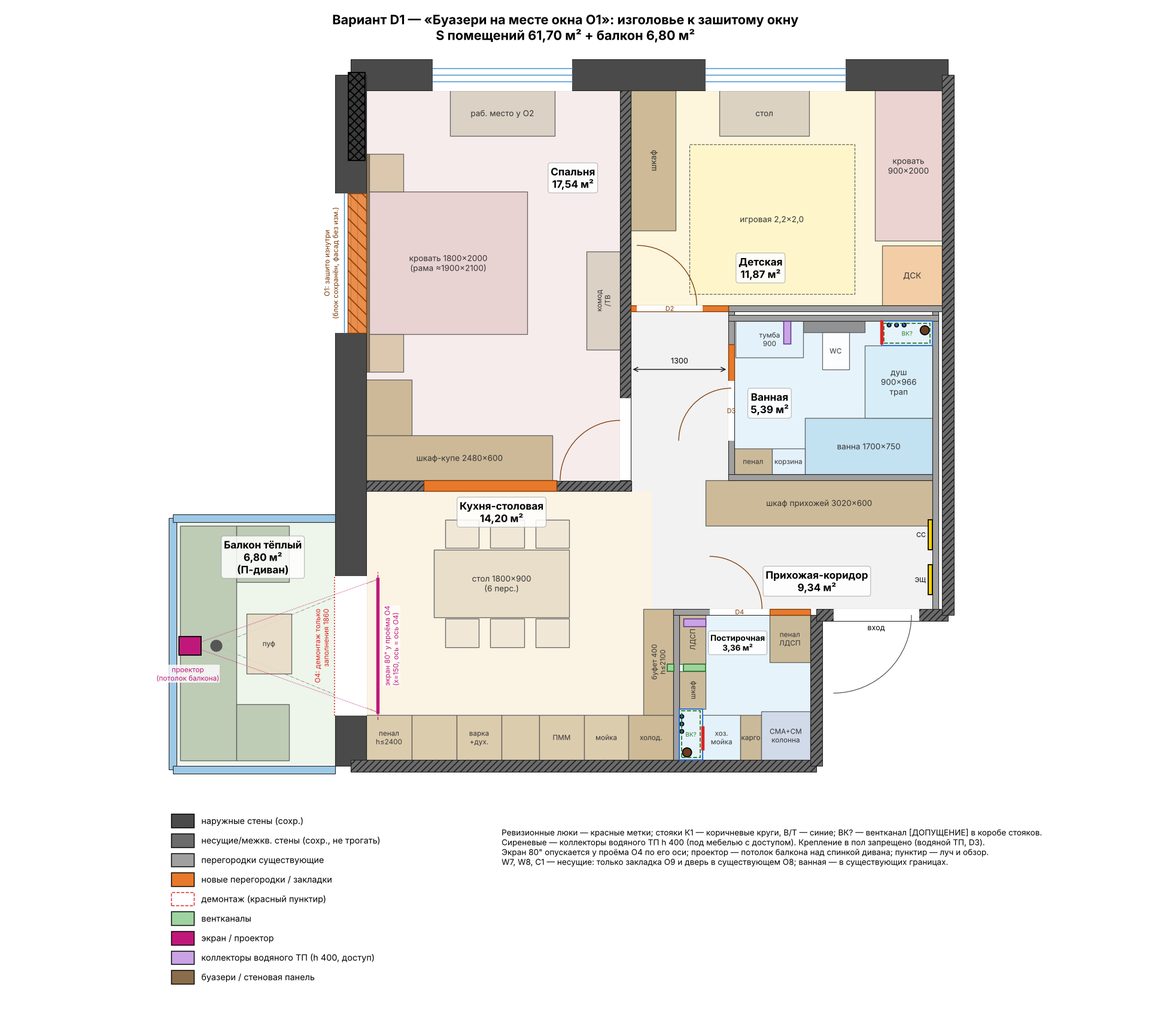
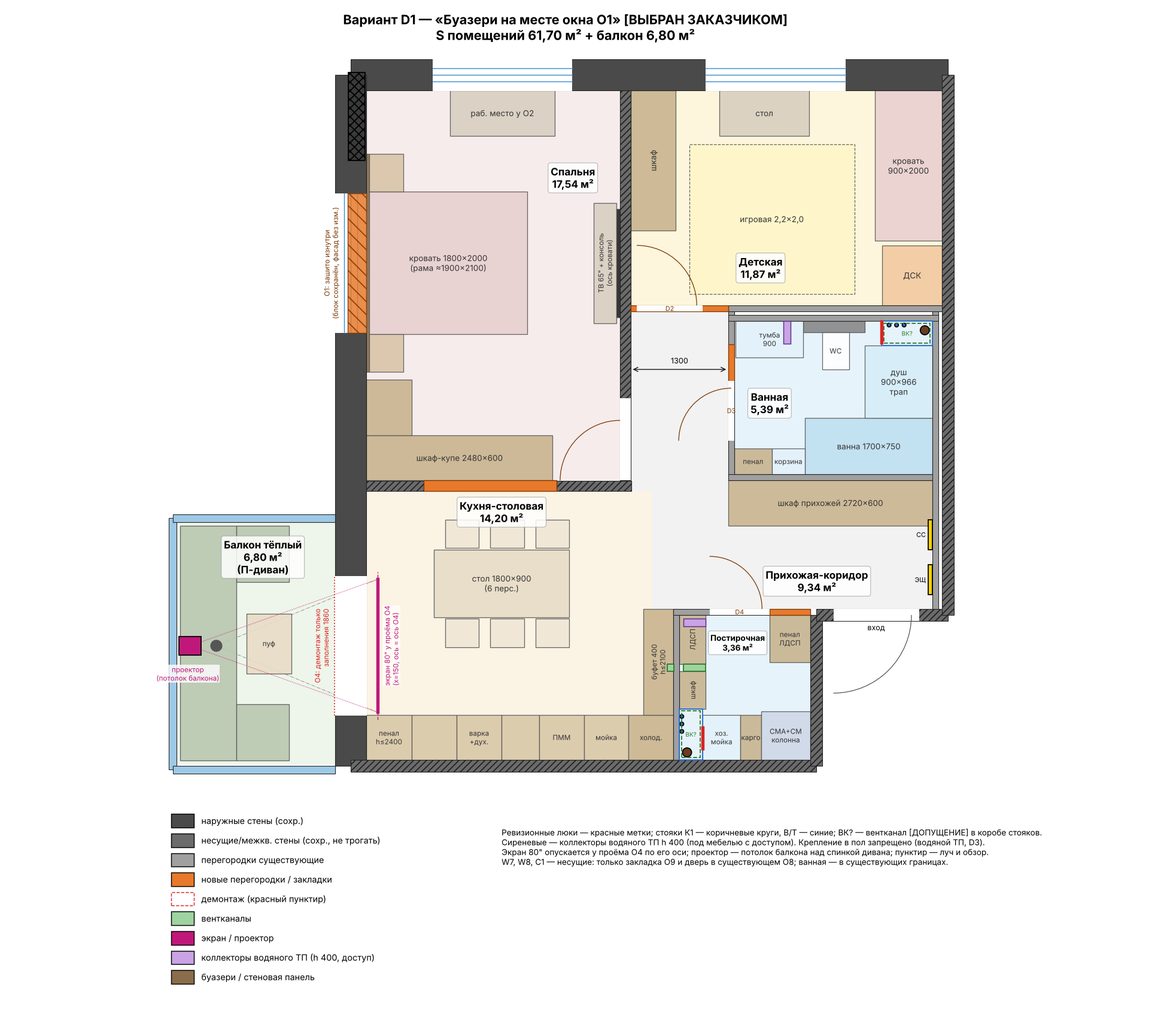
Design project: final planning D1 (client choice), hallway wardrobe and bedroom TV zone
Claude-Session: https://claude.ai/code/session_011sUkeYXADW4VjjUfNdKrqY

diff --git a/apartment-project/tools/gen_planning.py b/apartment-project/tools/gen_planning.py
@@ -433,7 +433,7 @@ for f in COMMON_FURN:
         f["l"] = "пенал\nh≤2400"
     COMMON_FURN_D.append(f)
 COMMON_REST_D = [
-    {"t": "tall", "r": [4520, 3121, 7541, 3721], "l": "шкаф прихожей 3020×600"},
+    {"t": "tall", "r": [4820, 3121, 7541, 3721], "l": "шкаф прихожей 2720×600"},
     {"t": "tall", "r": [3520, 7051, 4120, 8911], "l": "шкаф"},
     {"t": "bed", "r": [6770, 6911, 7670, 8911], "l": "кровать\n900×2000"},
     {"t": "desk", "r": [4700, 8311, 5900, 8911], "l": "стол"},
@@ -449,7 +449,8 @@ BED_D1 = [
     {"t": "desk", "r": [1110, 8311, 2510, 8911], "l": "раб. место у O2"},
     {"t": "tall", "r": [0, 3721, 2480, 4321], "l": "шкаф-купе 2480×600"},
     {"t": "tall", "r": [0, 4321, 600, 5066], "l": ""},
-    {"t": "dresser", "r": [2930, 5466, 3380, 6766], "l": "комод\n/ТВ"},
+    {"t": "dresser", "r": [3030, 5816, 3330, 7416], "l": "ТВ 65\" + консоль\n(ось кровати)"},
+    {"t": "tv", "r": [3330, 5896, 3380, 7336], "l": ""},
 ]
 BED_D2 = [
     {"t": "tall", "r": [0, 8311, 3380, 8911], "l": "шкафы 3380×600, фасады-буазери (за ними зашитое O2)"},
@@ -467,15 +468,23 @@ def make_D(sub):
     closed_win = "O1" if sub == "D1" else "O2"
     kept_win = "O2" if sub == "D1" else "O1"
     if sub == "D1":
-        title = "Вариант D1 — «Буазери на месте окна O1»: изголовье к зашитому окну"
+        title = "Вариант D1 — «Буазери на месте окна O1» [ВЫБРАН ЗАКАЗЧИКОМ]"
         idea_bed = ("Спальня — вся комната 17,54 м² без перегородок. Окно O1 (левый фасад) зашивается изнутри без изменения фасада; на его месте — "
                     "стена-изголовье с буазери, кровать 1800×2000 стоит по оси бывшего окна (y=6616) поперёк комнаты, по сторонам тумбы и бра. "
-                    "Рабочее место — фронтально у окна O2. У входа — шкаф-купе Г-образный 2480 + 745 (≈ 3,2 п.м.), в ногах кровати у W7 — комод/ТВ.")
+                    "Рабочее место — фронтально у окна O2. У входа — шкаф-купе Г-образный 2480 + 745 (≈ 3,2 п.м.), напротив кровати на W7 — ТВ-зона по оси кровати (y=6616): ТВ 65″ на стене, центр +1150, низкая подвесная консоль 1600×300; комода нет (решение заказчика).")
         bed_check = {"bed": "1800×2000 (рама ≈ 1900×2100), x 40..2140, y 5666..7566, изголовье к W2 (зашитое O1)",
                      "clearances": {"сторона к окну O2 (до стола)": 745, "сторона ко входу (до шкафа-купе)": 1345,
-                                    "в ногах до W7": 1240, "в ногах до комода": 790, "проём двери D1 — свободен (дуга до x 2580, шкаф до x 2480)": 100},
+                                    "в ногах до W7": 1240, "в ногах до подвесной консоли ТВ": 890, "проём двери D1 — свободен (дуга до x 2580, шкаф до x 2480)": 100},
                      "verdict": "≥ 600 (рекомендуемо 700) выполнено со всех сторон"}
-        storage = "шкаф-купе Г: 2480×600 вдоль заложенного O9 + 745×600 вдоль W2 ≈ 3,2 п.м. (программа ≥ 2,4 п.м.)"
+        storage = "шкаф-купе Г: 2480×600 вдоль заложенного O9 + 745×600 вдоль W2 ≈ 3,2 п.м. (программа ≥ 2,4 п.м.); комода нет"
+        tv_zone = {"wall": "W7 (стена спальня/детская), напротив изножья", "axis_y": 6616, "axis_note": "ось ТВ = ось кровати 1800×2000 = ось зашитого окна O1 (y = 6616)",
+                   "tv": "65″ 16:9 (≈ 1439×809), плоский настенный кронштейн (вылет ≤ 50); альтернатива 75″ (1660×934)",
+                   "center_height": 1150, "tv_span_z": [745, 1555],
+                   "height_note": "центр +1150 от УЧП — между уровнем глаз полулёжа на подушках (≈ +900..+1000) и сидя в кровати (≈ +1250..+1300); наклон взгляда ≤ 5°",
+                   "viewing_distance_mm": 2980, "distance_note": "глаза у изголовья x ≈ 350 → экран x ≈ 3330: ≈ 2,98 м; 65″ (диагональ 1,65 м) → 1,8 диагонали — комфортно для спальни; 75″ → 1,57 (на пределе, доминирует в интерьере)",
+                   "console": "подвесная консоль 1600×300, низ +250 (робот-пылесос), верх +450, по оси y 5816..7416; крепление к W7 (ж/б/кирпич) — анкеры; без опоры на пол (водяной ТП)",
+                   "electrical": "за ТВ — ниша/закладная коробка: 2 розетки + HDMI/сеть на +1150 за экраном, гофра до консоли; подсветка консоли снизу 2700 K",
+                   "clearance": "изножье – консоль 890, изножье – ТВ 1190"}
         workplace = "стол 1400×600 фронтально у окна O2 (x 1110..2510): свет спереди, ≥ 500 лк днём у окна"
         pros = ["идея заказчика буквально: кровать по оси зашитого окна, симметричная неоклассическая композиция стены-изголовья (буазери, бра, ниша в откосе)",
                 "изголовье не у общей стены с детской — тише для обеих комнат",
@@ -486,7 +495,7 @@ def make_D(sub):
                 "изголовье у наружной стены — качество утепления зашивки критично (тепловизор после монтажа)",
                 "проход стол–кровать 745 при выдвинутом стуле сужается до ≈ 500"]
     else:
-        title = "Вариант D2 — «Стена шкафов на месте окна O2» [РЕКОМЕНДОВАН]"
+        title = "Вариант D2 — «Стена шкафов на месте окна O2» (не выбран)"
         idea_bed = ("Спальня — вся комната 17,54 м² без перегородок. Окно O2 (верхний фасад) зашивается изнутри без изменения фасада и скрывается за стеной шкафов "
                     "3380×600 во всю ширину комнаты с фасадами-буазери «в тон стен» (шкафы читаются как панельная стена). Кровать 1800×2000 — изголовьем к W7 "
                     "на мягкой панели во всю стену с подсветкой и бра; перед шкафами — зона переодевания 1,4 м. Рабочее место — у окна O1, свет слева-спереди. "
@@ -510,8 +519,8 @@ def make_D(sub):
     o = {
         "option": sub,
         "title": title,
-        "status": "[РЕКОМЕНДОВАН]" if sub == "D2" else "подвариант",
-        "base": "санузел/прихожая/коридор — по варианту A (ванная в существующих границах, коридор 1300), шкаф прихожей 3020 (как B); постирочная — новая (без WC); кухня — B/общая; экран — у проёма O4",
+        "status": "выбран заказчиком 2026-10-08" if sub == "D1" else "подвариант, не выбран (резерв при северном фасаде W1)",
+        "base": "санузел/прихожая/коридор — по варианту A (ванная в существующих границах, коридор 1300), шкаф прихожей 2720 (в нише по длине стены ванной, без выступа за торец W12); постирочная — новая (без WC); кухня — B/общая; экран — у проёма O4",
         "idea": idea_bed + (" Ванная остаётся в существующих границах 5,38 (решение заказчика): ванна 1700, душ с трапом у стояка, инсталляция, тумба 900 со столешницей, "
                             "зеркальный шкаф, пенал, корзина для белья, ниши в коробе стояков. Постирочная без унитаза: колонна СМА+СМ, компактная хозмойка, "
                             "шкафы и пенал ЛДСП. Экран 80\" опускается из ниши в потолке кухни вплотную к проёму O4 по его оси; проектор — на потолке балкона над диваном."),
@@ -552,14 +561,14 @@ def make_D(sub):
              "polygon": [[0, 3721], [3380, 3721], [3380, 8911], [0, 8911]]},
             {"id": "R2", "name": "Детская", "purpose": "детская",
              "polygon": [[3520, 6051], [7670, 6051], [7670, 8911], [3520, 8911]]},
-            {"id": "R4", "name": "Прихожая-коридор", "purpose": "прихожая, шкаф 3020×600, коридор 1300",
+            {"id": "R4", "name": "Прихожая-коридор", "purpose": "прихожая, шкаф 2720×600 (x 4820..7541, в плоскости торца W12), коридор 1300",
              "polygon": [[3810, 2011], [7541, 2011], [7541, 3721], [4820, 3721], [4820, 5971], [3520, 5971], [3520, 3721], [3530, 3721], [3530, 3580], [3810, 3580]]},
             {"id": "R5", "name": "Ванная", "purpose": "ванна + душ (трап) + WC на инсталляции + тумба 900; в существующих границах",
              "polygon": [[4900, 3800], [7541, 3800], [7541, 5841], [4900, 5841]]},
             {"id": "R6", "name": "Постирочная", "purpose": "постирочная без WC: СМА+СМ, хозмойка, хранение ЛДСП",
              "polygon": [[4170, 0], [5910, 0], [5910, 1931], [4170, 1931]]},
         ],
-        "bedroom": {"concept": idea_bed, "bed": bed_check, "storage": storage, "workplace": workplace,
+        "bedroom": {"concept": idea_bed, "tv_zone": tv_zone if sub == "D1" else None, "bed": bed_check, "storage": storage, "workplace": workplace,
                     "decor": ("Неоклассика сдержанно: буазери — МДФ-молдинги по окрашенной стене/панели (без золота), мягкое изголовье в ткани, парные бра на +1100..1200, "
                               "скрытая LED-подсветка 2700 K по контуру панели/ниши (диммер, сцена «Ночь»), блэкаут-шторы на оставшемся окне. "
                               + ("В D1 — допускается неглубокая ниша (50–100) в откосе зашитого O1 над изголовьем с подсветкой, если после утепления остаётся глубина; иначе — панель заподлицо." if sub == "D1"
@@ -665,7 +674,7 @@ for k, o in OPTIONS.items():
 COL = {"kitchen": "#d9c8a9", "tall": "#c9b48f", "table": "#e8dcc6", "chair": "#efe6d6", "sofa": "#b9c7b0",
        "bath": "#bfe0f0", "shower": "#d6eef8", "install": "#888888", "wc": "#ffffff", "sink": "#e3f2fa",
        "wm": "#cfd8e8", "bed": "#e8d0d0", "desk": "#d8cfc0", "play": "#fff6c8", "dsk": "#f2c9a0",
-       "panel": "#8a6d4b", "night": "#d8c4a8", "dresser": "#d8cfc0", "bench": "#e0cdb5", "basket": "#e3f2fa"}
+       "panel": "#8a6d4b", "tv": "#222222", "night": "#d8c4a8", "dresser": "#d8cfc0", "bench": "#e0cdb5", "basket": "#e3f2fa"}
 ROOMCOL = {"Кухня-столовая": "#fbf3e4", "Балкон (тёплый)": "#eef5ea", "Спальня": "#f6ecec", "Гардеробная": "#efe8df",
            "Детская": "#fdf6dc", "Прихожая-коридор": "#f2f2f2", "Ванная": "#e6f3fa", "Постирочная": "#e6f3fa"}
 

diff --git a/apartment-project/tools/make_final.py b/apartment-project/tools/make_final.py
@@ -1,7 +1,7 @@
 #!/usr/bin/env python3
 """pib-planning: итоговый planning.json по выбранному варианту + проверка коллизий.
 
-Итерация 2 (2026-10-08): итог — подвариант D2 [РЕКОМЕНДОВАН] (замечания заказчика, decisions.md D6–D11).
+Итерация 2 (2026-10-08): итог — подвариант D1, выбран заказчиком (decisions.md D6–D13).
 Запуск из любой папки:  python3 tools/make_final.py [D1|D2]
 """
 import json, importlib.util, copy, sys
@@ -12,7 +12,7 @@ spec = importlib.util.spec_from_file_location("g", HERE / "gen_planning.py")
 g = importlib.util.module_from_spec(spec)
 spec.loader.exec_module(g)
 
-SEL = sys.argv[1] if len(sys.argv) > 1 else "D2"
+SEL = sys.argv[1] if len(sys.argv) > 1 else "D1"
 O = copy.deepcopy(g.OPTIONS[SEL])
 for r in O["rooms"]:
     r["area"] = round(g.area(r["polygon"]), 2)
@@ -80,10 +80,11 @@ SC = O["cinema"]
 final = {
     "sheet": {"codes": ["АР-02..АР-04 (варианты A/B/C)", "АР-04a (варианты D1/D2)", "АР-05 План демонтажа", "АР-06 План монтажа перегородок"], "scale": "1:50", "units": "mm"},
     "selected_option": SEL,
-    "status": ("[РЕКОМЕНДОВАН] Итерация 2 по замечаниям заказчика 2026-10-08: база — вариант D (санузел/коридор как A, шкаф прихожей как B, постирочная без WC, экран у проёма). "
-               "[ДОПУЩЕНИЕ] Выбор между подвариантами спальни D1/D2 заказчиком не сделан — принят D2 (норма инсоляции/КЕО выполняется при любой ориентации); "
-               "D1 равноценен, если фасад W1 не северный (questions №50). Прежний итог (вариант B) отменён."),
-    "source": "01-input/measurements.json; 00-brief/program.md; 00-brief/decisions.md D1–D11; варианты — 03-drawings/planning-options.md, planning-option-D1/D2.json",
+    "status": ("ВЫБРАН ЗАКАЗЧИКОМ 2026-10-08 (decisions.md D12): вариант D, подвариант D1 — изголовье к зашитому окну O1, ТВ-зона напротив кровати; "
+               "база D: санузел/коридор как A, шкаф прихожей 2720 в нише без выступа, постирочная без WC, экран у проёма. "
+               "Риск: инсоляция — если фасад W1 (O2, O3) северный, возврат к D2 или отказ от зашивки O1 (questions №50 открыт). Прежний итог (B) отменён."
+               if SEL == "D1" else "подвариант D2 (не выбран заказчиком)"),
+    "source": "01-input/measurements.json; 00-brief/program.md; 00-brief/decisions.md D1–D13; варианты — 03-drawings/planning-options.md, planning-option-D1/D2.json",
     "customer_remarks_2026_10_08": [
         "экран проектора — ближе к проходу кухня–балкон",
         "постирочная без туалета, полностью мебелирована хранением (ЛДСП), стиральная + сушильная машины",
@@ -97,7 +98,7 @@ final = {
         "[ДОПУЩЕНИЕ] Газа нет (U20) — правило о газифицированной кухне не применяется.",
         "[ДОПУЩЕНИЕ] Вентканалы постирочной (U25) и ванной (U26) — в коробах стояков U5/U10 (на плане однозначно не определяются); канал кухни — U12 с решёткой U13 (оранжевый знак на плане).",
         "[ДОПУЩЕНИЕ] Отметки врезок в стояки К1 (U1, U6) неизвестны — уклоны рассчитаны при врезке ≤ −20 от УЧП.",
-        "[ДОПУЩЕНИЕ] Ориентация фасадов неизвестна (questions №50) — влияет на выбор D1/D2 (инсоляция).",
+        "[РИСК] Ориентация фасадов неизвестна (questions №50, открыт). В D1 спальня (O2) и детская (O3) — окнами на фасад W1: если он северный, ни одна жилая комната не инсолируется (СанПиН 1.2.3685-21) — тогда вернуться к D2 (зашить O2, сохранить O1) или не зашивать O1 (перестановка детской не помогает — O3 тоже на W1).",
         "[ДОПУЩЕНИЕ] Высота потолка балкона после утепления ≥ +2500 (крепление проектора, questions №51).",
         "Бриф: «всё согласовано» — решения приводятся в соответствие с согласованным проектом перепланировки (questions №8)."],
     "demolition": O["demolition"] + [
@@ -155,7 +156,7 @@ final = {
         "sofa": "П-диван встроенный на ножках без крепления в пол; блэкаут-шторы на всём остеклении; проектор — на потолке над спинкой (кронштейн к плите балкона)."},
     "access_revisions": O["access_revisions"],
     "handoff": {
-        "pib-furniture": f"Мебель — контуры в planning-option-{SEL}.json (furniture); детализировать: спальня (кровать 1800, шкафы с фасадами-буазери, изголовье), ванная (тумба 900, зеркальный шкаф, пенал, корзина), постирочная ЛДСП (секции по обе стороны вентканала U12, доступ к коллектору U11), шкаф прихожей 3020.",
+        "pib-furniture": f"Мебель — контуры в planning-option-{SEL}.json (furniture); детализировать: спальня (кровать 1800, шкафы с фасадами-буазери, изголовье), ванная (тумба 900, зеркальный шкаф, пенал, корзина), постирочная ЛДСП (секции по обе стороны вентканала U12, доступ к коллектору U11), шкаф прихожей 2720 (x 4820..7541, без выступа за торец W12); ТВ-зона спальни (bedroom.tv_zone).",
         "pib-engineering": "Отметки врезок К1; трап; вентиляторы ванной/постирочной в каналы U26/U25 (подтвердить вскрытием коробов); вытяжка кухни в U12; заглушки WC в постирочной; электро-ТП не укладывать под коллекторами U11/U14.",
         "pib-finishes": "Подъём пола ванной +80, пандус у D3; короб-ламбрекен вдоль W2 в кухне с нишей экрана 180×150 (низ ≈ +2550); зашивка окна (узел: утеплитель, пароизоляция, 2×ГКЛ, буазери); пол балкона до ±0.000.",
         "pib-electrical": "Проектор — потолок балкона (x≈-2350, y 1520), розетка+HDMI/сеть в кабель-канале потолка; привод экрана в нише у O4; СМА/СМ — отдельные линии с АВДТ; подсветка изголовья/шкафов спальни; бра."},

diff --git a/apartment-project/03-drawings/planning-options.md b/apartment-project/03-drawings/planning-options.md
@@ -3,7 +3,7 @@
 Объект: СПб, кв. 108, 1/4 этаж, кирпич 2026 г. Геометрия — `01-input/measurements.json` (координаты, мм).
 Данные вариантов: `planning-option-A.json`, `planning-option-B.json`, `planning-option-C.json`.
 Превью для заказчика: `svg/planning-option-A.png`, `svg/planning-option-B.png`, `svg/planning-option-C.png`.
-Итоговый вариант (итерация 2, 2026-10-08): `planning.json` — **вариант D, подвариант D2 [РЕКОМЕНДОВАН]** (раздел 6). Выбор между D1 и D2 — **[ДОПУЩЕНИЕ]**, заказчик пока не выбрал. Вариант B больше не итоговый: заказчик дал замечания (`00-brief/decisions.md` D6–D11).
+Итоговый вариант (итерация 2, 2026-10-08): `planning.json` — **вариант D, подвариант D1 — выбран заказчиком** (раздел 6, decisions.md D12). Правки заказчика к D1: шкаф прихожей не выступает за торец W12 — 2720; комод напротив кровати заменён ТВ-зоной по оси кровати. Вариант B больше не итоговый: заказчик дал замечания (`00-brief/decisions.md` D6–D11).
 
 > **Уточнение исходных данных (2026-10-08, D9–D10).** Зелёные прямоугольники U11 (с/у 3,36) и U14 (ванная) — это **коллекторы водяного ТП высотой ≈ 400 мм**, а не вентканалы. Вентканалов в квартире три: кухня — U12 с решёткой U13 (оранжевый знак, трактовка подтверждена), постирочная — U25, ванная — U26. U25 и U26 по плану не определяются, поэтому приняты в коробах стояков **[ДОПУЩЕНИЕ]**. В разделах 0–5 (A/B/C) U11 и U14 по-прежнему названы вентканалами — в варианте D это исправлено.
 
@@ -131,7 +131,7 @@
 Несущие конструкции при этом не затрагиваются. Цена — коридор 1000 вместо 1300 (по норме достаточно) и дополнительное согласование расширения мокрой зоны над нежилым помещением. Вариант A имеет смысл, если важно минимальное согласование или жилая площадь по документам. Вариант C — если приоритет у детской.
 
 
-## 6. Вариант D — по замечаниям заказчика (итерация 2) [РЕКОМЕНДОВАН D2]
+## 6. Вариант D — по замечаниям заказчика (итерация 2) [ВЫБРАН D1]
 
 Замечания заказчика (2026-10-08):
 - экран — ближе к проходу кухня–балкон;
@@ -146,7 +146,7 @@
 | Зона | Решение |
 |---|---|
 | Ванная 5,39 м² (как A, без переноса W12) | Ванна 1700×750 вдоль W13. Душ walk-in 900×966 у стояка U6: линейный трап, подъём пола +80, вход 650 со стороны ванны, стекло 315 у WC. Подвесной WC на инсталляции, короб на всю ширину 5820..6641 до +1200 с полкой. **Тумба 900** подвесная, низ +450..+500 над коллектором U14, съёмный цоколь; каменная столешница; раковина смещена от U14. Зеркальный шкаф 900 с подсветкой. Пенал 500×350. Тумба-корзина для белья 440, над ней электрический полотенцесушитель. Две ниши в душе в грани короба U10 (после вскрытия короба — там может проходить вентканал U26). Проходы: перед WC 651, перед тумбой 1211. Двойная раковина не помещается: нужно не меньше 1200. Дверь D3 700 переносится вниз по W12 (как в A). |
-| Коридор / прихожая | Коридор 1300. Шкаф прихожей **3020×600** (x 4520..7541): на 300 длиннее, чем в A, за счёт выноса за торец W12. Проход между торцом шкафа и W8 в начале коридора — 990 (норма ≥ 850). |
+| Коридор / прихожая | Коридор 1300. Шкаф прихожей **2720×600** (x 4820..7541) — в нише вдоль стены ванной, между торцом W12 и W14. За плоскость торца W12 не выступает (правка заказчика, D13). Длиннее не помещается: справа W14, слева выступ дал бы ступеньку в коридор. |
 | Постирочная 3,36 (без WC) | Колонна СМА+СМ 650×650 в углу W3/W4, загрузка к центру. Сушильная машина — с тепловым насосом, конденсат в сифон. Колонна выбрана вместо постановки рядом: иначе не помещаются мойка и пенал. Компактная хозмойка 450 у стояка (рекомендую оставить) и карго 280 под столешницей, над ними навесные шкафы. Шкаф над колонной. Пенал ЛДСП 540×630 до потолка: гладильная доска, пылесос, швабра. Вдоль W10 — шкафы ЛДСП глубиной 350 двумя секциями **по обе стороны вентканала кухни U12** (канал не зашивается). Нижний ярус у коллектора U11 открывается фасадами от пола, дна нет. Выпуск WC Ø110 — переход 110/50 или заглушка с ревизией; подводка к WC заглушается. Дверь D4 700 (как в B, часть O6 закладывается NW9). |
 | Кухня | Как в B. Буфет 400 у W10 высотой не более 2100 — решётка вентканала U13 остаётся открытой, вытяжка подключается в U12 с обратным клапаном. Угловой пенал — не выше +2400, под коробом экрана. |
 | **Экран у проёма** | **80″ 16:9 (полотно 1771×996)** с натяжением. Опускается из ниши в коробе-ламбрекене кухни вплотную к проёму O4: плоскость x = 150, **ось экрана совпадает с осью проёма** (y = 1520). Полотно y 635..2406 — на 45 мм уже проёма с каждой стороны. Изображение на высоте +1254..+2250 (на 200 ниже перемычки). Опущенный экран перекрывает проход — для кинорежима это принято. На столешницу и стол экран не опускается. |
@@ -155,13 +155,13 @@
 
 ### 6.2 Спальня 17,54 — два подварианта
 
-| Критерий | **D1 — «Буазери на месте O1»** | **D2 — «Стена шкафов на месте O2» [РЕКОМЕНДОВАН]** |
+| Критерий | **D1 — «Буазери на месте O1» [ВЫБРАН ЗАКАЗЧИКОМ]** | **D2 — «Стена шкафов на месте O2»** (резерв) |
 |---|---|---|
 | Зашиваемое окно | O1 (левый фасад, со стороны балкона) | O2 (верхний фасад) |
 | Оставшееся окно | O2, на коротком торце | O1, на длинной стене |
-| Кровать 1800×2000 (рама ≈ 1900×2100) | Изголовьем к зашитому O1 по оси окна, буазери, бра, ниша с подсветкой в откосе | Изголовьем к W7, мягкая панель-буазери во всю стену с подсветкой и бра |
-| Проходы у кровати | 745 (до стола) / 1345 (до шкафа) / в ногах 1240 (790 до комода) | 1411 (зона переодевания) / 829 (до комода) / в ногах 1250; угол стола у изножья 650 |
-| Хранение | Шкаф-купе Г-образный 2480 + 745 ≈ 3,2 п.м. у входа | Шкафы 3380×600 до потолка во всю стену, фасады-буазери (за ними зашитое O2) + комод 1500 |
+| Кровать 1800×2000 (рама ≈ 1900×2100) | Изголовьем к зашитому O1 по оси окна (y = 6616), буазери, бра, ниша с подсветкой в откосе. **Напротив — ТВ-зона на W7 по оси кровати** (вместо комода): ТВ 65″ на стене, центр +1150 от УЧП, низкая подвесная консоль 1600×300 (низ +250, верх +450). От глаз до экрана ≈ 2,98 м — это 1,8 диагонали 65″; 75″ — допустимая альтернатива (1,57) | Изголовьем к W7, мягкая панель-буазери во всю стену с подсветкой и бра |
+| Проходы у кровати | 745 (до стола) / 1345 (до шкафа) / в ногах 1240 до стены, 890 до консоли ТВ | 1411 (зона переодевания) / 829 (до комода) / в ногах 1250; угол стола у изножья 650 |
+| Хранение | Шкаф-купе Г-образный 2480 + 745 ≈ 3,2 п.м. у входа, комода нет | Шкафы 3380×600 до потолка во всю стену, фасады-буазери (за ними зашитое O2) + комод 1500 |
 | Рабочее место | Стол 1400 фронтально у O2 — лучший свет | Стол 1200 у O1, свет слева-спереди |
 | Окно / пол | 2,98 / 17,54 = **1:5,9** (норма ≥ 1:8) — ОК | **1:5,9** — ОК |
 | Глубина от окна (КЕО) | 5,19 м, отношение к верху окна 1,71 — КЕО ожидается ≥ 0,5 %, но с малым запасом (1 этаж) | 3,38 м, отношение 0,97 — с большим запасом |
@@ -180,24 +180,30 @@
 
 ### 6.3 Сравнение D с прежними вариантами
 
-| Критерий | A | B | **D1** | **D2 [РЕК.]** |
+| Критерий | A | B | **D1 [ВЫБРАН]** | **D2** |
 |---|---|---|---|---|
 | Спальня, м² | 17,54 (2 окна) | 13,03 + гардеробная 4,17 | 17,54 (1 окно) | 17,54 (1 окно) |
 | Кровать / проходы | 1600 / ≥ 700 | 1600 / ≥ 700 | 1800 / ≥ 745 | 1800 / ≥ 650 (угол), 829+ |
 | Хранение спальни | 2,48 п.м. | гардеробная ≈ 5 п.м. | ≈ 3,2 п.м. | 3,38 п.м. + комод |
 | Ванная | 5,39, раковина 550 | 5,96, тумба 800 | 5,39, **тумба 900** (U14 низкий) | то же |
-| Коридор / шкаф прихожей | 1300 / 2720 | 1000 / 3020 | 1300 / 3020 | 1300 / 3020 |
+| Коридор / шкаф прихожей | 1300 / 2720 | 1000 / 3020 | 1300 / 2720 | 1300 / 2720 |
 | Постирочная | с WC | с WC | без WC, ЛДСП | без WC, ЛДСП |
 | Экран / расстояние | 100″, x = 3000 / 4,9 м | то же | **80″ у проёма / 2,15 м** | то же |
 | Изменение мокрых зон | нет | +0,57 м² | нет | нет |
 | Новые перегородки / закладки | 3 | 8 | 4 (NW1, NW4, NW8, NW9) + зашивка O1 | 4 + зашивка O2 |
 | Жилая площадь | 29,41 | 24,90 | 29,41 | 29,41 |
 
-**Почему рекомендован D2.**
+**Решение заказчика: D1** (decisions.md D12). Ниже — исходная аргументация, почему pib-planning рекомендовал D2; она сохраняется как обоснование запасного варианта.
 - Все замечания заказчика выполнены.
 - Мокрые зоны остаются в прежних границах.
 - Жилая площадь не уменьшается.
 - Нормы естественного освещения и инсоляции выполняются при любой ориентации дома.
 - Хранения в спальне больше всего.
 
-D1 буквально повторяет идею «кровать к зашитому окну» и даёт лучший свет на рабочий стол. Его можно выбрать, если фасад W1 (окна O2 и O3) не северный — ответ на questions №50.
+D1 буквально повторяет идею «кровать к зашитому окну» и даёт лучший свет на рабочий стол.
+
+**Риск D1 — инсоляция (questions №50 открыт).** Спальня (O2) и детская (O3) остаются окнами на один фасад W1. Если он северный, в квартире не будет ни одной инсолируемой жилой комнаты (СанПиН 1.2.3685-21). В этом случае:
+- вернуться к D2: зашить O2, сохранить O1;
+- или не зашивать O1 и оставить в спальне оба окна. Перестановка детской не поможет: у комнаты 11,97 единственное окно O3 тоже на W1.
+
+Зашивка обратимая, поэтому решение можно скорректировать до монтажа отделки.

diff --git a/apartment-project/06-review/planning-compliance.md b/apartment-project/06-review/planning-compliance.md
@@ -1,6 +1,6 @@
 # Проверка допустимости планировочных решений (pib-planning)
 
-**Итерация 2 (2026-10-08).** Проверяется вариант **D2 [РЕКОМЕНДОВАН]** (`03-drawings/planning.json`, `planning-option-D2.json`). Отличия D1 — в отдельном столбце. Проверка варианта B (итерация 1) заменена этой: B больше не итоговый.
+**Итерация 2 (2026-10-08).** Итог — **вариант D1, выбран заказчиком** (`03-drawings/planning.json`, `planning-option-D1.json`, decisions.md D12–D13). Таблица ниже проверялась на D2. Для итогового D1 смотрите столбец «D1» и раздел «Риск D1». Проверка варианта B (итерация 1) заменена этой: B больше не итоговый.
 
 Нормативная база: ЖК РФ ст. 25–29, 36, 40; Постановление Госстроя РФ № 170 (п. 1.7.1–1.7.4); СП 54.13330.2022; СанПиН 1.2.3685-21 (КЕО, инсоляция).
 
@@ -20,9 +20,9 @@
 | 7 | Газифицированная кухня с жилой комнатой | Газа нет [ДОПУЩЕНИЕ U20]. Кухня объединяется только с балконом, от спальни отделена закладкой O9. | ОК | так же |
 | 8 | Доступ к стоякам, вентканалам, щитам, коллекторам | Короб U10 — люк на грани x = 6863. Короб U5 — люк над столешницей и съёмная задняя стенка тумбы. **Коллекторы ТП** (h 400, D9): U14 — под подвесной тумбой со съёмным цоколем; U11 — в нижнем ярусе шкафа ЛДСП, фасады от пола, без дна. **Вентканалы** (D10): кухня U12/U13 — буфет не выше 2100, решётка открыта, канал в постирочной не зашит (шкафы по обе стороны); постирочная U25 и ванная U26 — в коробах стояков [ДОПУЩЕНИЕ], врезка вентиляторов выше +2450 в подшивном потолке с ревизией. ЭЩ и СС вне шкафа. | ОК / УСЛ (U25/U26 — вскрытие коробов) | так же |
 | 9 | Канализация: уклон ≥ 2 % для Ø50, ≥ 1 % для Ø110; подиум или насос | Душ Ø50 0,4 м 2 %. Ванна Ø50 1,6 м 2 %. WC Ø110 1,2 м 1–2 %. Раковина Ø50 2,1 м 2 % (выпуск +550, над U14 зазор ≥ 50). Постирочная: мойка Ø50 0,4 м, СМА Ø50 1,4 м 2 %. Кухня Ø50 1,6 м 2 %. **Подиум только в ванной (+80) под трап. Насос SFA не нужен**, если врезка в K1 U6 не выше −20; иначе подъём до +120 или SFA для душа. | УСЛ (отметки тройников) | так же |
-| 10 | Естественное освещение жилых комнат | Спальня — окно O1 1860×1600 = 2,98 м² на 17,54 м² = **1:5,9** (норма СП 54 — не менее 1:8): ОК. Глубина от окна 3,38 м, КЕО с запасом. **Инсоляция**: спальня (W2) и детская (W1) на разных фасадах — ≥ 1 комната инсолируется при любой ориентации. Детская — O3 без изменений. | ОК | 1:5,9 ОК; глубина 5,19 м (КЕО — подтвердить расчётом); инсоляция — **УСЛ**: если фасад W1 северный, нарушение (questions №50) |
-| 11 | Ширина коридоров ≥ 850 (рекомендуемо 1000+) | Коридор 1300. Проход у торца шкафа прихожей 990. Прихожая у шкафа 1110. Дверь ванной D3 при открывании оставляет в коридоре 600 (кратковременно). | ОК | так же |
-| 12 | Проход у кровати ≥ 600 | Кровать 1800: до шкафов 1411, до комода 829, в ногах 1250; угол стола и изножья 650. Детская: кровать 900, проход больше 600. | ОК | 745 / 1345 / 1240 (790 до комода) |
+| 10 | Естественное освещение жилых комнат (**риск D1**) | Спальня — окно O1 1860×1600 = 2,98 м² на 17,54 м² = **1:5,9** (норма СП 54 — не менее 1:8): ОК. Глубина от окна 3,38 м, КЕО с запасом. **Инсоляция**: спальня (W2) и детская (W1) на разных фасадах — ≥ 1 комната инсолируется при любой ориентации. Детская — O3 без изменений. | ОК | 1:5,9 ОК; глубина 5,19 м (КЕО — подтвердить расчётом); инсоляция — **УСЛ**: если фасад W1 северный, нарушение (questions №50) |
+| 11 | Ширина коридоров ≥ 850 (рекомендуемо 1000+) | Коридор 1300. Шкаф прихожей 2720 стоит в нише по длине стены ванной, за торец W12 не выступает (D13). Прихожая у шкафа 1110. Дверь ванной D3 при открывании оставляет в коридоре 600 (кратковременно). | ОК | так же |
+| 12 | Проход у кровати ≥ 600 | Кровать 1800: до шкафов 1411, до комода 829, в ногах 1250; угол стола и изножья 650. Детская: кровать 900, проход больше 600. | ОК | 745 / 1345 / 1240 до W7, 890 до подвесной консоли ТВ (комода нет) |
 | 13 | Перед кухонным фронтом ≥ 1000–1200 | 1300 до стола. Экран у проёма фронт не перекрывает (полотно от y = 635, фронт до y = 600). | ОК | так же |
 | 14 | Водяной ТП: не резать стяжку, не крепить в пол | Перегородки ПГП на клею. Мебель, колонна, П-диван — без крепления в пол. Зашивка окна крепится к откосам. Пробивки — вручную. Электро-ТП не укладывается под коллекторами. | ОК (D3) | так же |
 | 15 | СП 54.13330.2022: санузлы над жилыми и кухнями; двери с/у | Мокрые зоны в прежних границах. Двери ванной и постирочной открываются наружу. | ОК | так же |
@@ -30,15 +30,22 @@
 | 17 | Жилая площадь | Не меняется: 29,41 м² (спальня одним помещением). | ОК | так же |
 | 18 | Экран и проектор | Опущенный экран перекрывает проход кухня–балкон — допустимо только в кинорежиме, автоматика поднимает экран при включении общего света (сценарий умного дома). Проектор на кронштейне к плите балкона, кабели в потолке. | ОК | так же |
 
-## Пункты, требующие согласования перепланировки и переустройства (D2)
+## Риск D1 — инсоляция (вопрос №50 открыт)
+
+Ориентацию фасадов заказчик не знает. В D1 зашивается O1 (фасад W2), поэтому спальня (O2) и детская (O3) смотрят на один фасад W1.
+- **Если W1 северный**, в двухкомнатной квартире не останется ни одной инсолируемой жилой комнаты. Это нарушение СанПиН 1.2.3685-21: нужна хотя бы одна. Тогда нужно либо вернуться к D2 (зашить O2, сохранить O1), либо не зашивать O1. Поменять комнаты местами не поможет: у детской 11,97 единственное окно O3 тоже на W1.
+- КЕО спальни при одном окне O2: глубина 5,19 м, отношение к верху окна 1,71. При согласовании подтвердить расчётом КЕО (1 этаж, возможное затенение).
+- Зашивка обратимая. Решение проверить до чистовой отделки и изготовления буазери.
+
+## Пункты, требующие согласования перепланировки и переустройства (итог D1; для D2 — то же, но зашивается O2)
 
 Бриф: «всё согласовано». Перечень ниже сверить с согласованным проектом. Пункты, которых в нём нет, — согласовать до начала работ (ЖК РФ ст. 26, questions №8).
 
 1. Объединение кухни с балконом. Демонтаж заполнения O4 в границах 1860, без расширения проёма. Утепление, электрообогрев, водяное отопление не выносится.
 2. Замена холодного остекления балкона на тёплое (внешний облик фасада, КГА).
-3. **Зашивка окна O2 изнутри** — в D1 окна O1. Рекомендуемым способом (блок сохранён, фасад не меняется) это не перепланировка по ст. 25 ЖК: конфигурация помещения и ограждающая конструкция не меняются. Тем не менее нужно:
+3. **Зашивка окна O1 изнутри** (D1; в D2 — O2). Рекомендуемым способом (блок сохранён, фасад не меняется) это не перепланировка по ст. 25 ЖК: конфигурация помещения и ограждающая конструкция не меняются. Тем не менее нужно:
    - внести в проект и сверить с согласованным;
-   - подтвердить КЕО и инсоляцию (D2 — с запасом).
+   - подтвердить КЕО и инсоляцию: для D1 — обязательно, см. «Риск D1».
 
    **Если окно закладывать кладкой с демонтажем блока**, меняются фасад и наружная ограждающая конструкция МКД. Это общее имущество: нужны решение общего собрания собственников (ст. 36, 40 ЖК), согласование архитектурного облика (КГА СПб) и проект. **Не рекомендуется.**
 4. Закладка проёма O9 в несущей стене W8 (ненагружающая перегородка NW1).
@@ -55,11 +62,11 @@
 10. Вытяжные вентиляторы ванной и постирочной — в собственные вентканалы, с обратными клапанами. Вытяжка кухни — в канал U12 (решётка U13) с обратным клапаном. Механическую вытяжку в естественный канал согласовать по ОВ / с УК.
 11. Бризеры — отверстия в наружных стенах (фасад) — по согласованному проекту. В зашиваемом окне бризер не ставится.
 
-**Требуется проект усиления и согласование — в D2 (и D1) таких пунктов нет.** Он понадобится только при расширении O4, O8, O9 или новых проёмах в W7/W8.
+**Требуется проект усиления и согласование — в D1 (и D2) таких пунктов нет.** Он понадобится только при расширении O4, O8, O9 или новых проёмах в W7/W8.
 
 ## Открытые данные, от которых зависит решение
 
-- Ориентация фасадов W1/W2 (questions №50) — окончательный выбор D1/D2.
+- Ориентация фасадов W1/W2 (questions №50, открыт) — подтверждение D1 или возврат к D2.
 - Высота потолка балкона после утепления (questions №51) — крепление проектора.
 - Положение вентканалов постирочной и ванной в коробах U5/U10 (вскрытие) — U25/U26 приняты как [ДОПУЩЕНИЕ]; от этого зависят ниши в душе.
 - Отметки тройников K1 (U1, U6) — подиум или насос.

diff --git a/apartment-project/00-brief/decisions.md b/apartment-project/00-brief/decisions.md
@@ -15,3 +15,5 @@
 | D9 | 2026-10-08 | Уточнение заказчика: зелёные прямоугольники на плане — не вентканалы | U11 и U14 — коллекторные блоки водяного ТП застройщика, высота ≈ 400 от пола. В `measurements.json` тип → `ufh_manifold`, height 400, примечание «уточнено заказчиком». Скрываются под мебелью с доступом (съёмный цоколь, фасады от пола). На них ничего не ставится намертво | инженерия (доступ к узлам ТП) |
 | D10 | 2026-10-08 | Уточнение заказчика: в квартире 3 вентканала — кухня, ванная, постирочная | Кухня — U12 (оранжевый знак у W10 в постирочной) с решёткой U13 в кухне: трактовка подтверждена, буфет не выше 2100. Постирочная — U25, ванная — U26: по плану однозначно не определяются, приняты в коробах стояков U5/U10 [ДОПУЩЕНИЕ]. Вытяжка кухни → U12, санузлы → свои каналы с обратными клапанами. Решётки не закрывать | нормы / инженерия |
 | D11 | 2026-10-08 | Замечание заказчика: экран ближе к проходу кухня–балкон | Экран 80″ (1771×996) опускается из ниши потолка кухни вплотную к O4 (x = 150), ось = ось проёма. Проектор — на потолке балкона над спинкой дивана, расстояние 2,5 м, коэффициент проекции 1,41. От дивана до экрана 2,15 м. Прежнее решение (100″ на x = 3000, проектор в кухне) отменено | функция (решение заказчика) |
+| D12 | 2026-10-08 | Выбор подварианта спальни | **Заказчик выбрал D1**: окно O1 зашивается изнутри, кровать 1800×2000 изголовьем к нему, буазери. Комода напротив кровати нет — вместо него ТВ-зона на W7 по оси кровати (y = 6616): ТВ 65″, центр +1150 от УЧП, подвесная консоль 1600×300 (низ +250); от глаз до экрана ≈ 2,98 м. Ориентация фасадов неизвестна — вопрос №50 остаётся открытым. **Риск инсоляции**: если фасад W1 северный — вернуться к D2 или не зашивать O1. `planning.json` = D1 | решение заказчика; нормы — под контролем (№50) |
+| D13 | 2026-10-08 | Шкаф прихожей выступал за торец W12 (3020, решение D6) | Шкаф укладывается в нишу по длине стены ванной: x 4820..7541 = **2720×600**, без выступа за плоскость торца W12. Заменяет длину 3020 из D6 | решение заказчика (функция/эстетика) |

diff --git a/apartment-project/00-brief/questions.md b/apartment-project/00-brief/questions.md
@@ -95,7 +95,7 @@
 
 | № | Вопрос | Почему важно | Допущение по умолчанию | Разд. | Крит. |
 |---|---|---|---|---|---|
-| 50 | Ориентация фасадов по сторонам света: куда выходят верхний фасад W1 (окна O2, O3) и левый фасад W2 (окно O1, балкон)? Есть ли напротив здания, деревья (1 этаж)? | Выбор подварианта спальни. В D1 (зашито O1) спальня и детская остаются окнами на один фасад W1; если он северный, в квартире нет ни одной инсолируемой комнаты (СанПиН 1.2.3685-21). КЕО на 1 этаже. | [ДОПУЩЕНИЕ] Ориентация неизвестна → принят D2 (зашито O2): инсоляция обеспечена при любой ориентации. | АР | Б |
+| 50 | Ориентация фасадов по сторонам света: куда выходят верхний фасад W1 (окна O2, O3) и левый фасад W2 (окно O1, балкон)? Есть ли напротив здания, деревья (1 этаж)? | Выбор подварианта спальни. В D1 (зашито O1) спальня и детская остаются окнами на один фасад W1; если он северный, в квартире нет ни одной инсолируемой комнаты (СанПиН 1.2.3685-21). КЕО на 1 этаже. | [ДОПУЩЕНИЕ] Ориентация неизвестна → принят D2 (зашито O2): инсоляция обеспечена при любой ориентации. **2026-10-08: заказчик выбрал D1, ориентацию не знает — вопрос ОТКРЫТ; при северном W1 — возврат к D2 или отказ от зашивки O1 (D12).** | АР | Б |
 | 51 | Высота потолка балкона (низ плиты над балконом) и что планируется на потолке (утепление, отделка)? | Крепление проектора над спинкой дивана: линза ≈ +2350, кронштейн к плите. | [ДОПУЩЕНИЕ] После утепления потолок ≥ +2500 от уровня ±0.000. | АР/ЭО | В |
 | 52 | Какой проектор и экран (модели), если уже выбраны? Нужен ли 4K? | Под экран 80″ у проёма нужен коэффициент проекции 1,41 и сдвиг линзы ≈ +110 %. | [ДОПУЩЕНИЕ] 4K-проектор с зумом и сдвигом линзы, экран 80″ с натяжением, корпус ≈ 2,0 м. | ЭО | Ж |
 
